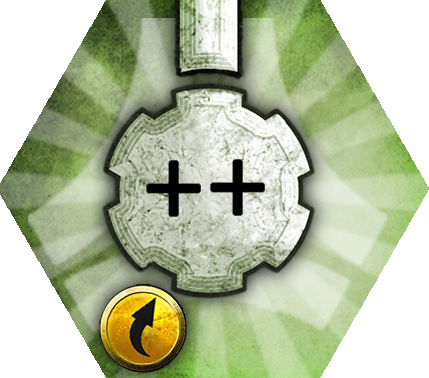
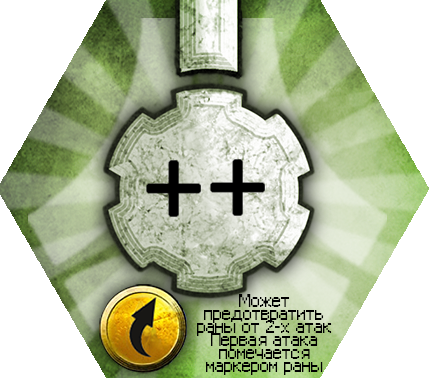
новая армия
я добавил арты из инета на её фишки

Changed region(s): [[0.4545, 0.7857, 0.7879, 0.9894]]

diff --git a/неур/Правила/найёмнички.py b/неур/Правила/найёмнички.py
@@ -1,4 +1,6 @@
 Генератор поля
+	выйдет за твою карту, враг или соеденись и он твой. умрет, можно нанять заново. гауспаралич
+
 	Управляемый токен-пока он не находится под контролем другого токена, он не принадлежит
 	ни к одной фракции и рассматривается каждым игроком как вражеский токен: он блокирует
 	линию огня, не может быть перемещен собственной плиткой хода, собственные модули не
@@ -51,7 +53,10 @@
 	# Rotation - When controlled by a player (see Controllable Token above), Filed Generator can be rotated in any direction by the controlling player once per his/her turn, including the turn when a controlling unit is placed adjacent to Filed Generator's connection icon.
 
 Транспортная база
-	одновременно принадлежит каждой армии и рассматривается каждым игроком как своя: она не блокирует линию огня, ее можно перемещать с помощью собственной плитки перемещения, к ней можно подключить собственные модули, ее нельзя повредить (кроме бомбы, которая также повреждает собственные юниты), ее нельзя отодвинуть, заманить в сеть, захватить и т. д.
+	начинает меж центром и краем, всем свой.
+	одновременно принадлежит каждой армии и рассматривается каждым игроком как своя: она не блокирует линию
+	огня, ее можно перемещать с помощью собственной плитки перемещения, к ней можно подключить собственные
+	модули, ее нельзя повредить (кроме бомбы, которая также повреждает собственные юниты), ее нельзя отодвинуть, заманить в сеть, захватить и т. д.
 	Если он будет уничтожен, то он будет удален из игры.
 	Он помещается на доску в начале игры - в начале игры, перед размещением ВКС, эта плитка помещается на любой шестигранник на доске, кроме краевых шестигранников и центра карты.
 
@@ -70,6 +75,7 @@
 	# Transport Base is a module common for every player. Every unit connected with Transport Base can make an additional move and/or turn in identical way as it would have a Mobility ability. Unit can even make such a move, after which it would not be adjecent to Transport Base. Transport Base cannot move itself.
 
 НОЧНОЙ ОХОТНИК
+	начинает меж центром и краем. всем свой. уничтожит любого за HQ-1
 	Общая плитка-она одновременно принадлежит каждой армии и рассматривается каждым игроком как своя собственная:
 	она не блокирует линию огня, ее можно перемещать с помощью собственной плитки перемещения, к ней можно
 	подключать собственные модули, ее нельзя повредить (кроме бомбы, которая также повреждает собственные юниты),
@@ -105,6 +111,7 @@
 	# Mobility - A player, during his turn, may move Night Hunter by 2 fields and turn him freely. However player can move Night Hunter by one field and turn him freely, then activate Devour (at the cost of 1 wound to his HQ) and then move Night Hunter by the second field and turn him freely.
 
 ассасин
+	Всем враг. Выйдет за твою карту. Бъёт только в личном бою. убьёшь - наймут ещё
 	Жетон ассасина не принадлежит ни одной фракции. Любой игрок может играть в нее на доске
 	вместо одного из своих жетонов. При размещении на доске любой игрок может разыграть
 	боевую плитку, чтобы активировать ее - вместо того, чтобы вызвать битву, убийца
@@ -124,6 +131,7 @@
 	# Tile is available as a reward in Dice Tower Season 10, 2014 Kickstarter campaign.
 
 Безумный бомбардировщик
+	начинает в центре. ударишь - взорвет всех рядом не HQ и на верх стопки след. игрока. ударит больше одного игрока в одной инициативе - умрёт
 	единственная фишка, которая не принадлежит ни игрокам, ни армии. Он начинает игру
 	на центре карты. Если он получает повреждение во время сражения, он сразу взрывается
 	в той же фазе, в результате чего наносит 1 повреждение всем соседним юнитам не считая

diff --git a/неур/neuro.py b/неур/neuro.py
@@ -39,7 +39,8 @@ armyDict = {'dancer': {'hq': 3,
 			'New Detroit': {16: 1, 21: 2, 24: 3},
 			'HI-TECH': {7: 1, 11: 2, 13: 3, 14: 4, 16: 5, 17: 2, 18: 11},
 			'Sand Runners': {11: 1, 14: 2, 15: 3, 18: 5},
-			'Salt Lake City': {6: 1, 15: 2, 17: 3, 18: 5, 19: 4}
+			'Silicon Valley': {6: 1, 15: 2, 17: 3, 18: 5, 19: 4},
+			'Bayou Boyz': {1: 1, 6: 2, 9: 3, 10: 4, 11: 5, 12: 6, 13: 2, 27: 1}
 			}
 lenArmyDict = len(armyDict)
 
@@ -74,7 +75,9 @@ colorArmy = {'sandrunners': (237,76,35),
 			'The MIT':(222, 108, 52),
 			'Frontier Nexus':(220, 48, 165),
 			'New Detroit': (145, 160, 180),
-			'HI-TECH': (59, 138, 220)
+			'HI-TECH': (59, 138, 220),
+			'Silicon Valley': (114, 56, 168),
+			'Sand Runners': (117, 154, 68)
 			}
 
 size = sizeDict[0]
